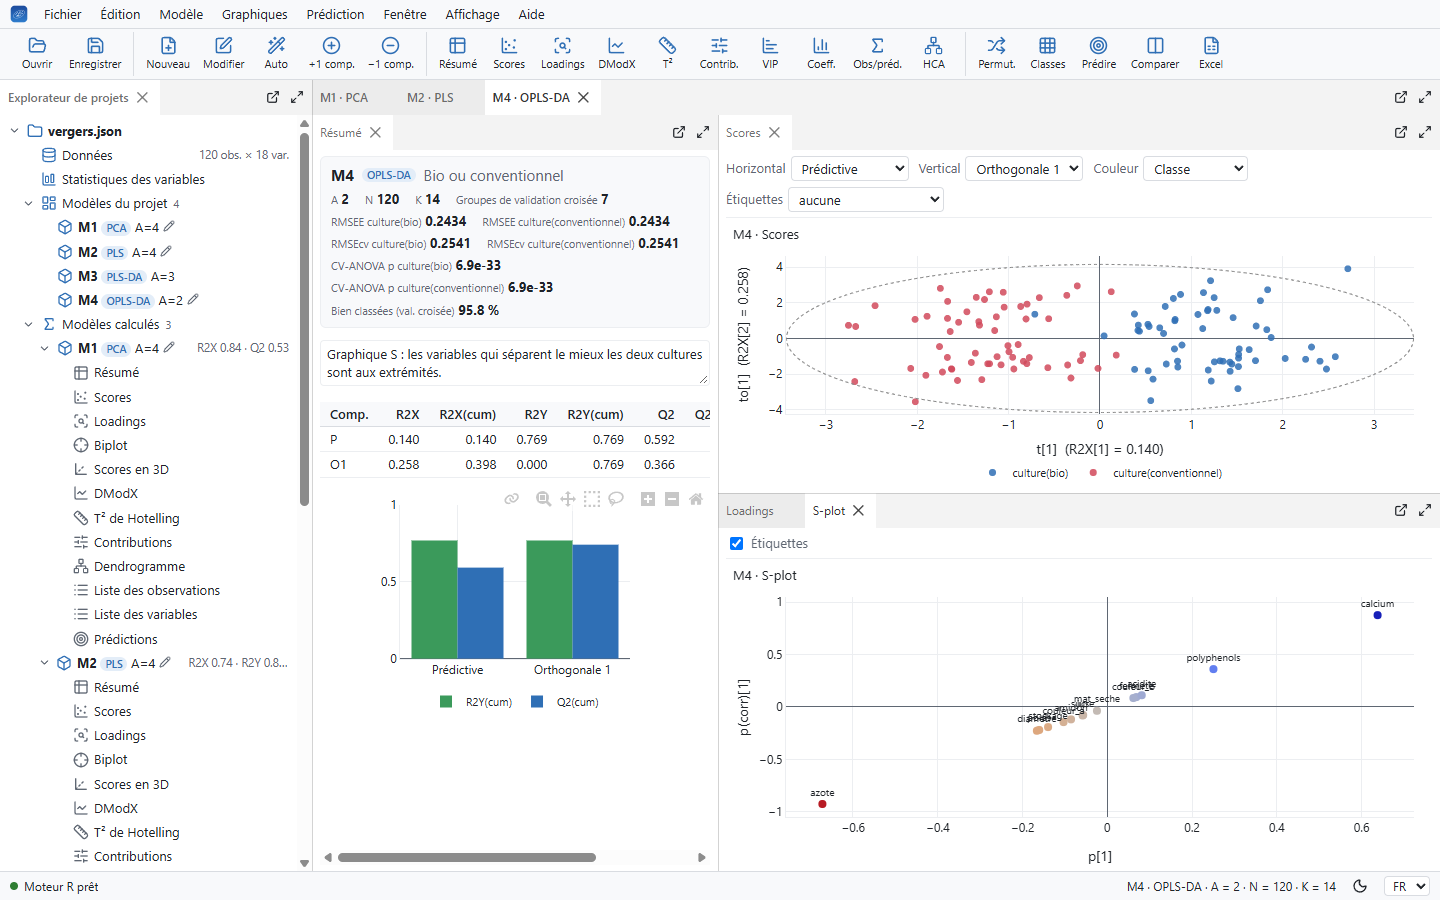
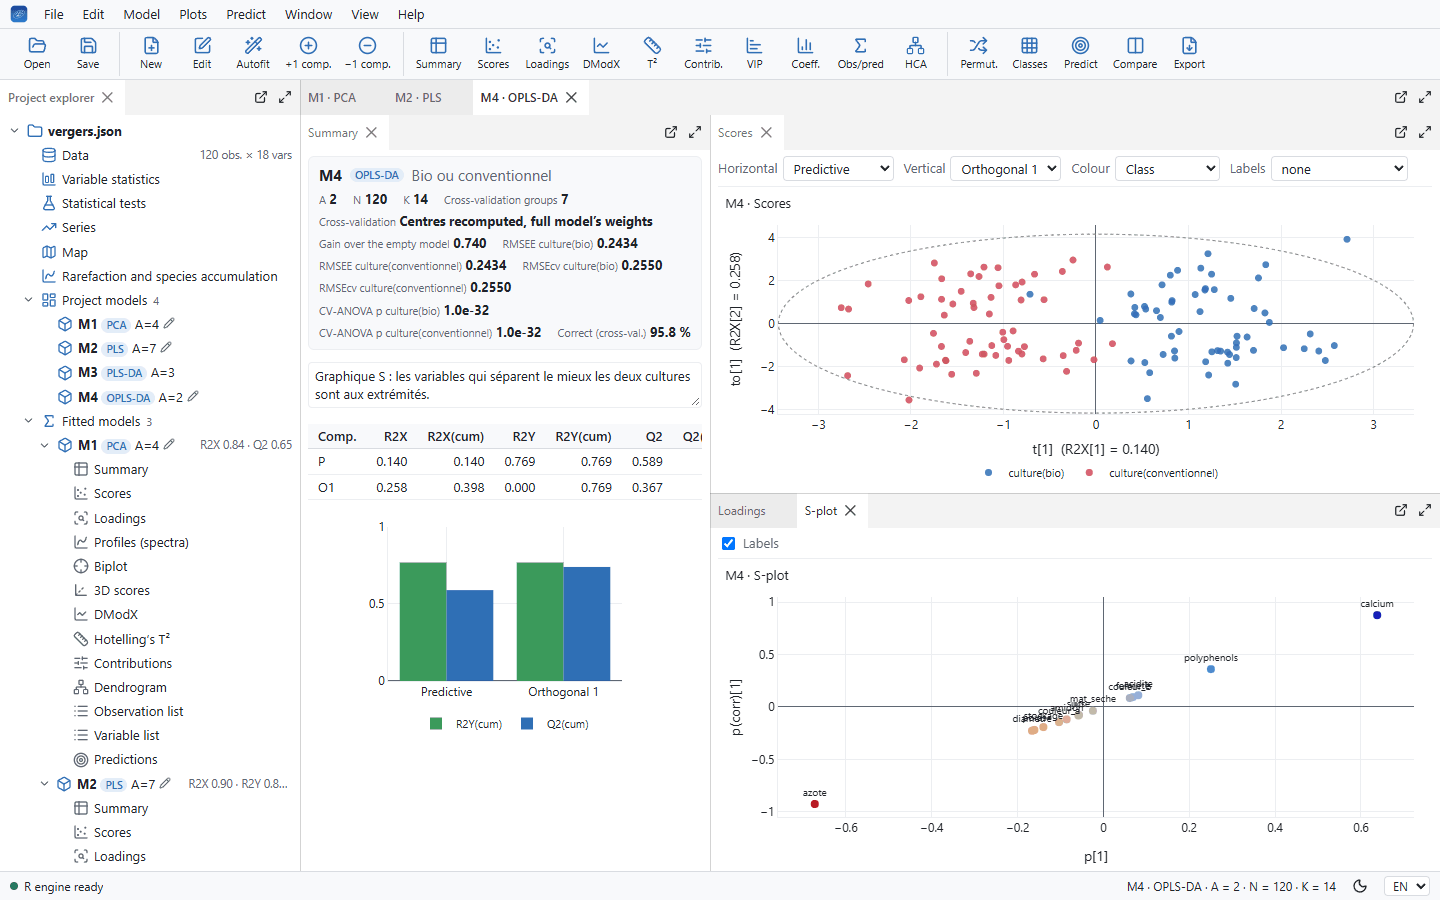
README screenshots in English, taken by the site's capture script
The eight screenshots of README.md and README.fr.md (docs/captures/) showed the French interface.
They are now in English, taken by `node docs/site/captures.mjs readme`, so that they can be taken
again after a change to the interface. Each is still the whole window at 1440 × 900, in the light
theme but console.png in the dark one, as its caption says:

- from the example project (Help › Example project): the PCA, the PLS with observed against
  predicted and its VIP, the OPLS-DA with its S-plot, the R console under the PCA, the tests
  between Gala and Golden with their volcano plot, and one PCA per variety with the Coomans plot;
- from spectra the script makes up in a temporary folder, with a seeded generator: a table of 60
  spectra in three batches (SNV and a first derivative, scores coloured by batch), and 24 JCAMP-DX
  files with a table of their sugar contents, imported by File › Import spectra (SNV, detrending
  and a first derivative, the two water bands dragged across the spectra).

The target is taken only when named, in English and the light theme whatever --langue and
--theme say. The images are reduced to 256 colours, as the site's are. The READMEs now say the
screenshots show the interface in English; docs/site/README.md says how to take them again.

diff --git a/docs/site/README.md b/docs/site/README.md
@@ -15,7 +15,7 @@ is merged).
 | `donnees/` | the tutorials' data (simulated) and the R scripts that made them |
 | `sources/fr/`, `sources/en/` | the home page, the installation and the tutorials, in Markdown |
 | `construire.js` | builds the pages |
-| `captures.mjs` | takes the screenshots |
+| `captures.mjs` | takes the screenshots, the tutorials' and the README's (`docs/captures/`) |
 | `verifier_liens.js` | checks the links |
 
 ## Rebuilding the pages
@@ -56,7 +56,7 @@ docs/site`, then open http://127.0.0.1:8792/. The pages also open from the disk 
 ## Screenshots and data
 
 ```
-node docs/site/captures.mjs [baci] [pls] [suivi] [--langue fr|en] [--theme clair|sombre]
+node docs/site/captures.mjs [baci] [pls] [suivi] [readme] [--langue fr|en] [--theme clair|sombre]
 ```
 
 Starts the R engine (`moteur/serveur.R`, port 8793) and a headless Chrome or Edge (port 9333),
@@ -72,6 +72,22 @@ which one.
 
 The data are simulated, with fixed seeds: `Rscript docs/site/donnees/baci.R` (and `spectres.R`,
 `suivi.R`) writes the same files again.
+
+`readme` takes the README's screenshots, `docs/captures/*.png` (`README.md` and `README.fr.md`
+show them), only when it is named:
+
+```
+node docs/site/captures.mjs readme
+```
+
+Each is the whole window, 1440 × 900, in English whatever `--langue` says, and in Nuée's light
+theme whatever `--theme` says, but `console.png` in the dark one, as its caption says. Six come
+from the example project (*Help › Example project*): the PCA, the PLS with its VIP, the OPLS-DA
+with its S-plot, the R console under the PCA, the tests between two varieties and the class
+models; `spectres.png` and `zones.png` from spectra the script makes up in a temporary folder (a
+table of 60 spectra; 24 JCAMP-DX files and a table of their sugar contents, imported by *File ›
+Import spectra*). Retake them after a change to what they show; they are reduced to 256 colours
+as the site's are.
 
 ## Publishing
 

diff --git a/README.md b/README.md
@@ -28,7 +28,7 @@ model in plain R, without Nuée. Every calculation is written in R, with comment
 check exactly what was computed, and change it.
 
 The interface is in English, by default, and French (*View › Language*); the screenshots show it
-in French.
+in English.
 
 ## Install
 

diff --git a/README.fr.md b/README.fr.md
@@ -29,7 +29,7 @@ Nuée. Chaque calcul est écrit en R, commenté, pour vérifier exactement ce qu
 le modifier.
 
 L'interface est en anglais, par défaut, et en français (*Affichage › Langue*) ; les captures la
-montrent en français.
+montrent en anglais.
 
 ## Installer
 
